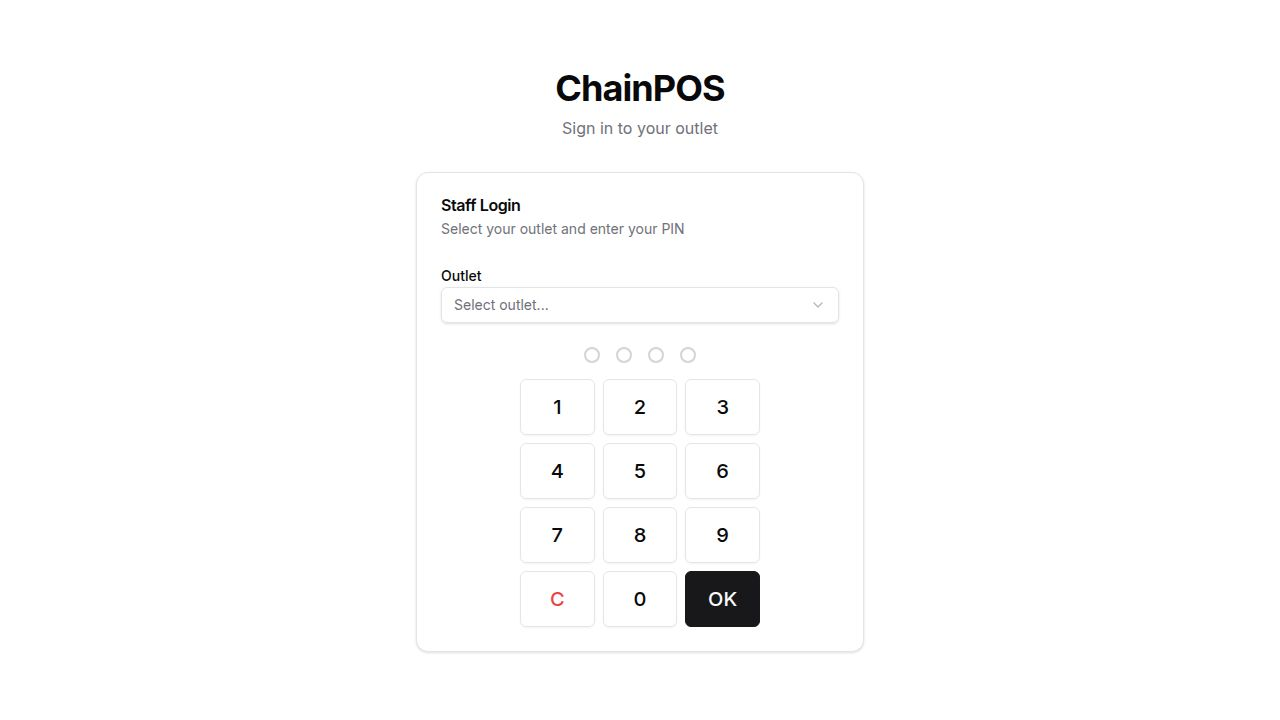
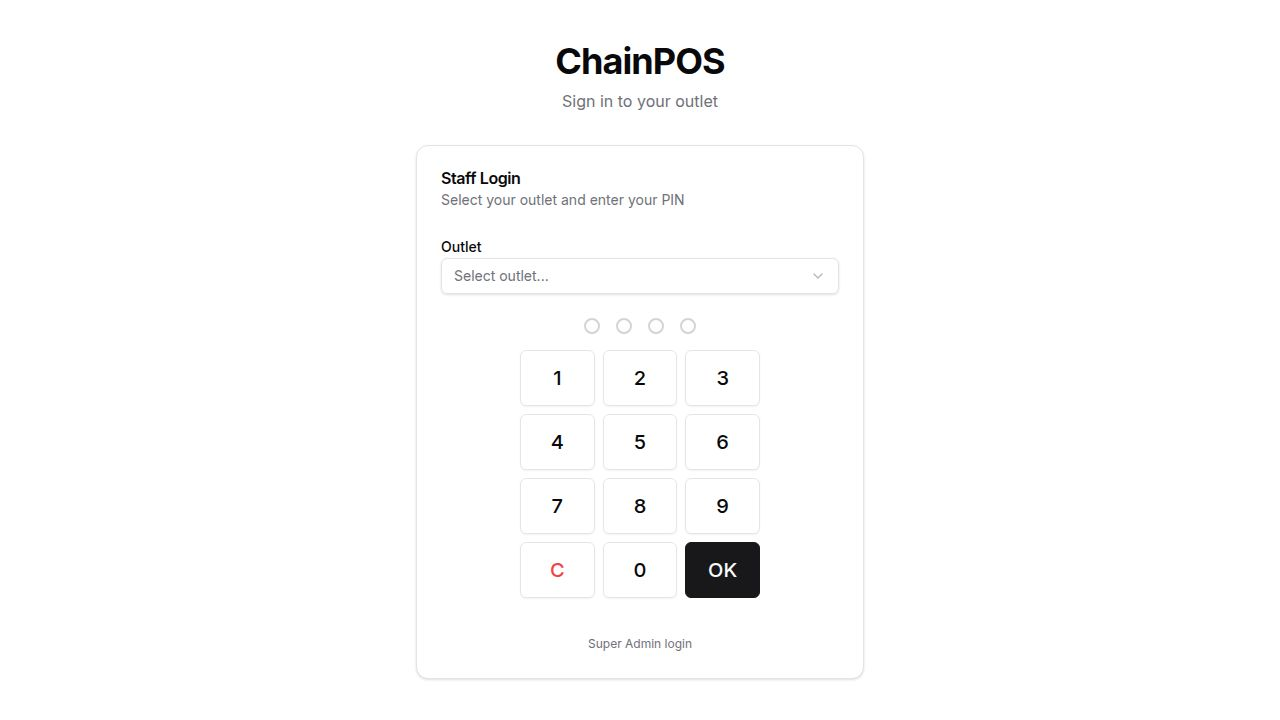
Fix issues with adding items to POS and updating table areas
Addresses an issue where items could not be added to the POS by correcting the `listItemModifierGroups` function call. Also resolves a runtime error on the tables page by updating the handling of the optional area selection, and corrects a route mismatch for deleting recipes in the inventory.

Replit-Commit-Author: Agent
Replit-Commit-Session-Id: e3f93d8d-5a9c-4ded-b5f5-36ba0990769b
Replit-Commit-Checkpoint-Type: full_checkpoint
Replit-Commit-Event-Id: 1c515ecf-cda3-4fc8-a7e3-5c12594b0b15
Replit-Commit-Screenshot-Url: https://storage.googleapis.com/screenshot-production-us-central1/024dcff5-9c2a-412d-be83-07b546cfffed/e3f93d8d-5a9c-4ded-b5f5-36ba0990769b/FDoZRLn
Replit-Helium-Checkpoint-Created: true

diff --git a/artifacts/restaurant-pos/src/pages/tables.tsx b/artifacts/restaurant-pos/src/pages/tables.tsx
@@ -338,12 +338,15 @@ export default function Tables() {
             </div>
             <div>
               <Label>Area (optional)</Label>
-              <Select value={tableForm.areaId} onValueChange={v => setTableForm(f => ({ ...f, areaId: v }))}>
+              <Select
+                value={tableForm.areaId || "none"}
+                onValueChange={v => setTableForm(f => ({ ...f, areaId: v === "none" ? "" : v }))}
+              >
                 <SelectTrigger>
                   <SelectValue placeholder="No area" />
                 </SelectTrigger>
                 <SelectContent>
-                  <SelectItem value="">No area</SelectItem>
+                  <SelectItem value="none">No area</SelectItem>
                   {areas?.map(a => (
                     <SelectItem key={a.id} value={a.id.toString()}>
                       <span className="flex items-center gap-2">

diff --git a/artifacts/api-server/src/routes/inventory.ts b/artifacts/api-server/src/routes/inventory.ts
@@ -213,12 +213,12 @@ router.post("/menu/items/:menuItemId/recipe", requireRole("super_admin", "manage
   }
 });
 
-router.delete("/menu/items/:menuItemId/recipe/:inventoryItemId", requireRole("super_admin", "manager"), async (req: Request, res: Response) => {
+router.delete("/menu/items/:menuItemId/recipe/:id", requireRole("super_admin", "manager"), async (req: Request, res: Response) => {
   try {
     const menuItemId = parseInt(req.params.menuItemId as string);
-    const inventoryItemId = parseInt(req.params.inventoryItemId as string);
+    const id = parseInt(req.params.id as string);
     await db.delete(menuItemRecipesTable).where(
-      and(eq(menuItemRecipesTable.menuItemId, menuItemId), eq(menuItemRecipesTable.inventoryItemId, inventoryItemId))
+      and(eq(menuItemRecipesTable.id, id), eq(menuItemRecipesTable.menuItemId, menuItemId))
     );
     return res.status(204).send();
   } catch (err) {

diff --git a/artifacts/restaurant-pos/src/pages/pos.tsx b/artifacts/restaurant-pos/src/pages/pos.tsx
@@ -138,7 +138,7 @@ export default function POS() {
   const handleAddItem = async (item: MenuItem) => {
     if (!activeOrderId) return;
     try {
-      const groups: ModifierGroup[] = await listItemModifierGroups({ menuItemId: item.id });
+      const groups: ModifierGroup[] = await listItemModifierGroups(item.id);
       if (groups.length > 0) {
         setPendingItem(item);
         setItemModGroups(groups);